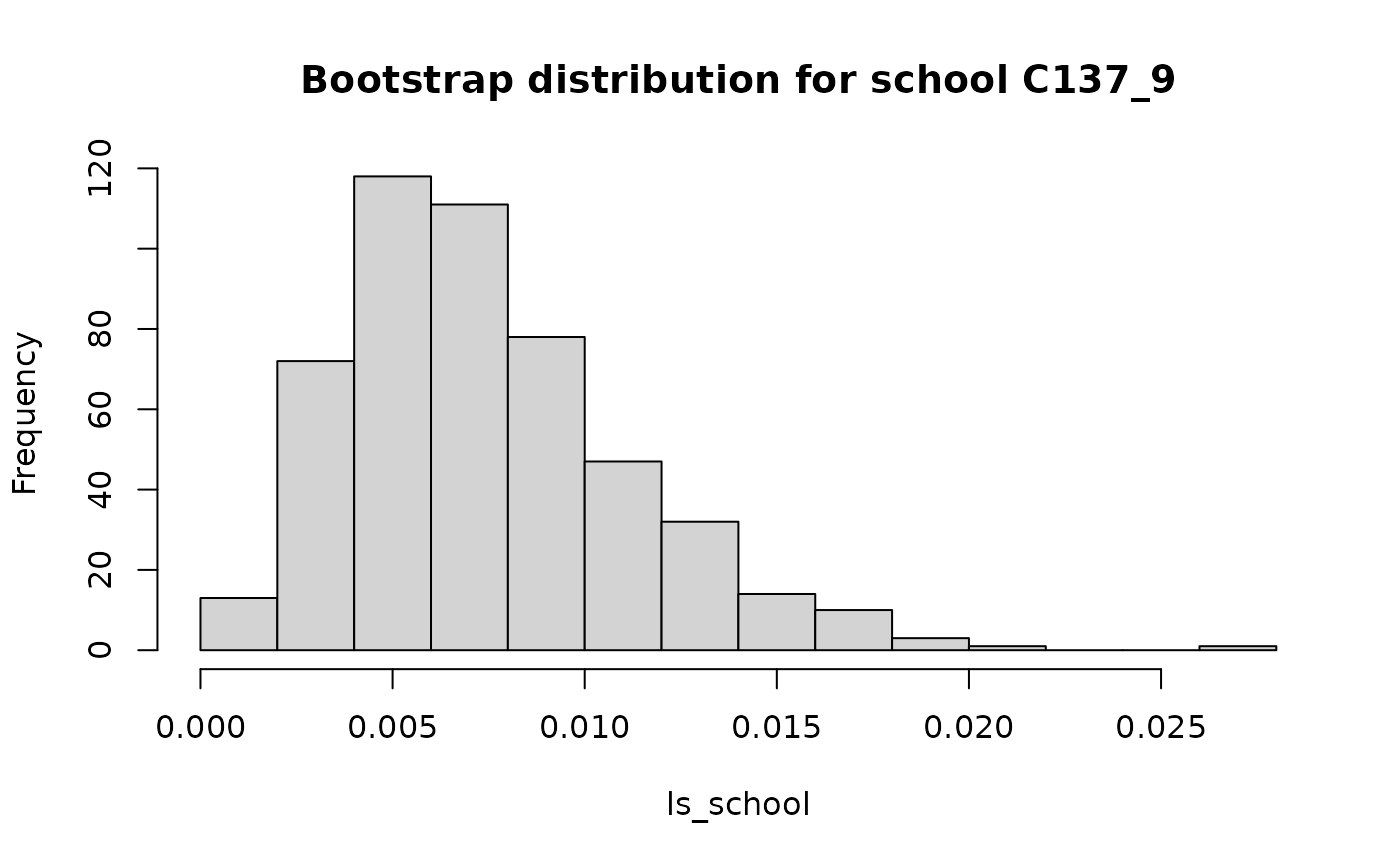
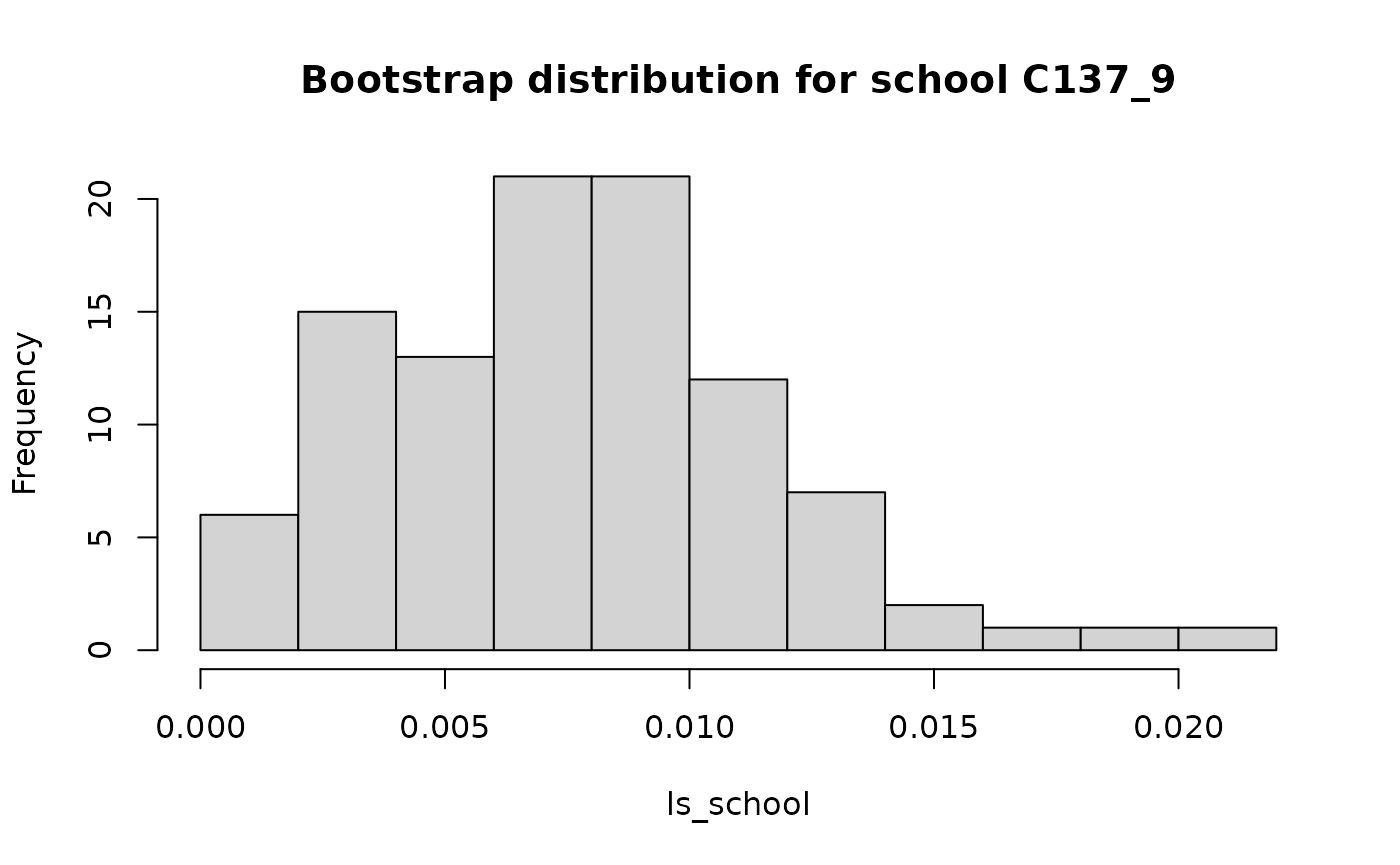
Deploying to gh-pages from @ elbersb/segregation@3d53dcfb6d64aaa420fafcd4ab8690ae464fd706 🚀

diff --git a/articles/segregation.html b/articles/segregation.html
@@ -201,7 +201,7 @@ American students. Hence, that row is missing.</p>
 <code><a href="../reference/matrix_to_long.html">matrix_to_long()</a></code> to convert them to the long format
 required for the package. As an example:</p>
 <div class="sourceCode" id="cb2"><pre class="downlit sourceCode r">
-<code class="sourceCode R"><span><span class="op">(</span><span class="va">m</span> <span class="op">=</span> <span class="fu"><a href="https://rdrr.io/r/base/matrix.html" class="external-link">matrix</a></span><span class="op">(</span><span class="fu"><a href="https://rdrr.io/r/base/c.html" class="external-link">c</a></span><span class="op">(</span><span class="fl">10</span>, <span class="fl">20</span>, <span class="fl">30</span>, <span class="fl">30</span>, <span class="fl">20</span>, <span class="fl">10</span><span class="op">)</span>, nrow <span class="op">=</span> <span class="fl">3</span><span class="op">)</span><span class="op">)</span></span>
+<code class="sourceCode R"><span><span class="op">(</span><span class="va">m</span> <span class="op">&lt;-</span> <span class="fu"><a href="https://rdrr.io/r/base/matrix.html" class="external-link">matrix</a></span><span class="op">(</span><span class="fu"><a href="https://rdrr.io/r/base/c.html" class="external-link">c</a></span><span class="op">(</span><span class="fl">10</span>, <span class="fl">20</span>, <span class="fl">30</span>, <span class="fl">30</span>, <span class="fl">20</span>, <span class="fl">10</span><span class="op">)</span>, nrow <span class="op">=</span> <span class="fl">3</span><span class="op">)</span><span class="op">)</span></span>
 <span><span class="co">#&gt;      [,1] [,2]</span></span>
 <span><span class="co">#&gt; [1,]   10   30</span></span>
 <span><span class="co">#&gt; [2,]   20   20</span></span>
@@ -253,12 +253,15 @@ groups and units correctly.</p>
 <p>For inference (discussed in more detail <a href="#inference">below</a>), we can use bootstrapping to obtain
 standard errors and confidence intervals:</p>
 <div class="sourceCode" id="cb6"><pre class="downlit sourceCode r">
-<code class="sourceCode R"><span><span class="fu"><a href="../reference/mutual_total.html">mutual_total</a></span><span class="op">(</span><span class="va">schools00</span>, <span class="st">"race"</span>, <span class="st">"school"</span>, weight <span class="op">=</span> <span class="st">"n"</span>,</span>
-<span>             se <span class="op">=</span> <span class="cn">TRUE</span>, CI <span class="op">=</span> <span class="fl">.95</span>, n_bootstrap <span class="op">=</span> <span class="fl">500</span><span class="op">)</span></span>
-<span><span class="co">#&gt; 500 bootstrap iterations on 877739 observations</span></span>
+<code class="sourceCode R"><span><span class="co"># setting n_bootstrap = 100 here to speed up - more iterations are recommended in practice</span></span>
+<span><span class="fu"><a href="../reference/mutual_total.html">mutual_total</a></span><span class="op">(</span><span class="va">schools00</span>, <span class="st">"race"</span>, <span class="st">"school"</span>,</span>
+<span>  weight <span class="op">=</span> <span class="st">"n"</span>,</span>
+<span>  se <span class="op">=</span> <span class="cn">TRUE</span>, CI <span class="op">=</span> <span class="fl">.95</span>, n_bootstrap <span class="op">=</span> <span class="fl">100</span></span>
+<span><span class="op">)</span></span>
+<span><span class="co">#&gt; 100 bootstrap iterations on 877739 observations</span></span>
 <span><span class="co">#&gt;    stat       est           se                  CI        bias</span></span>
-<span><span class="co">#&gt; 1:    M 0.4219107 0.0007650489 0.4203653,0.4232583 0.003628261</span></span>
-<span><span class="co">#&gt; 2:    H 0.4152140 0.0006907829 0.4138167,0.4165583 0.003594309</span></span></code></pre></div>
+<span><span class="co">#&gt; 1:    M 0.4218840 0.0008174818 0.4202065,0.4233499 0.003654953</span></span>
+<span><span class="co">#&gt; 2:    H 0.4151844 0.0007238189 0.4137700,0.4164411 0.003623954</span></span></code></pre></div>
 <p>As there a large number of observations, the standard errors are very
 small.</p>
 </div>
@@ -342,7 +345,8 @@ obtain the decomposition by state. To do so, we can use
 <code><a href="../reference/mutual_within.html">mutual_within()</a></code>:</p>
 <div class="sourceCode" id="cb9"><pre class="downlit sourceCode r">
 <code class="sourceCode R"><span><span class="op">(</span><span class="va">within</span> <span class="op">&lt;-</span> <span class="fu"><a href="../reference/mutual_within.html">mutual_within</a></span><span class="op">(</span><span class="va">schools00</span>, <span class="st">"race"</span>, <span class="st">"school"</span>,</span>
-<span>                         within <span class="op">=</span> <span class="st">"state"</span>, weight <span class="op">=</span> <span class="st">"n"</span>, wide <span class="op">=</span> <span class="cn">TRUE</span><span class="op">)</span><span class="op">)</span></span>
+<span>  within <span class="op">=</span> <span class="st">"state"</span>, weight <span class="op">=</span> <span class="st">"n"</span>, wide <span class="op">=</span> <span class="cn">TRUE</span></span>
+<span><span class="op">)</span><span class="op">)</span></span>
 <span><span class="co">#&gt;    state         M         p         H ent_ratio</span></span>
 <span><span class="co">#&gt; 1:     A 0.4085965 0.2768819 0.4969216 0.8092501</span></span>
 <span><span class="co">#&gt; 2:     B 0.2549959 0.4035425 0.2680884 0.9361190</span></span>
@@ -387,7 +391,8 @@ due to between-school segregation within districts? The package provides
 a convenience function for this use case:</p>
 <div class="sourceCode" id="cb12"><pre class="downlit sourceCode r">
 <code class="sourceCode R"><span><span class="fu"><a href="../reference/mutual_total_nested.html">mutual_total_nested</a></span><span class="op">(</span><span class="va">schools00</span>, <span class="st">"race"</span>, <span class="fu"><a href="https://rdrr.io/r/base/c.html" class="external-link">c</a></span><span class="op">(</span><span class="st">"state"</span>, <span class="st">"district"</span>, <span class="st">"school"</span><span class="op">)</span>,</span>
-<span>                    weight <span class="op">=</span> <span class="st">"n"</span><span class="op">)</span></span>
+<span>  weight <span class="op">=</span> <span class="st">"n"</span></span>
+<span><span class="op">)</span></span>
 <span><span class="co">#&gt;     between          within stat        est</span></span>
 <span><span class="co">#&gt; 1:    state                    M 0.09924370</span></span>
 <span><span class="co">#&gt; 2:    state                    H 0.09767398</span></span>
@@ -434,9 +439,12 @@ index, so it often makes sense to obtain confidence intervals. The
 following code plots the length of the 95% confidence interval in
 relation to the size of each school:</p>
 <div class="sourceCode" id="cb14"><pre class="downlit sourceCode r">
-<code class="sourceCode R"><span><span class="va">localse</span> <span class="op">&lt;-</span> <span class="fu"><a href="../reference/mutual_local.html">mutual_local</a></span><span class="op">(</span><span class="va">schools00</span>, <span class="st">"race"</span>, <span class="st">"school"</span>, weight <span class="op">=</span> <span class="st">"n"</span>,</span>
-<span>                        se <span class="op">=</span> <span class="cn">TRUE</span>, wide <span class="op">=</span> <span class="cn">TRUE</span>, n_bootstrap <span class="op">=</span> <span class="fl">1000</span><span class="op">)</span></span>
-<span><span class="co">#&gt; 1000 bootstrap iterations on 877739 observations</span></span>
+<code class="sourceCode R"><span><span class="co"># setting n_bootstrap = 100 here to speed up</span></span>
+<span><span class="va">localse</span> <span class="op">&lt;-</span> <span class="fu"><a href="../reference/mutual_local.html">mutual_local</a></span><span class="op">(</span><span class="va">schools00</span>, <span class="st">"race"</span>, <span class="st">"school"</span>,</span>
+<span>  weight <span class="op">=</span> <span class="st">"n"</span>,</span>
+<span>  se <span class="op">=</span> <span class="cn">TRUE</span>, wide <span class="op">=</span> <span class="cn">TRUE</span>, n_bootstrap <span class="op">=</span> <span class="fl">100</span></span>
+<span><span class="op">)</span></span>
+<span><span class="co">#&gt; 100 bootstrap iterations on 877739 observations</span></span>
 <span><span class="va">localse</span><span class="op">$</span><span class="va">lengthCI</span> <span class="op">&lt;-</span> <span class="fu"><a href="https://rdrr.io/r/base/lapply.html" class="external-link">sapply</a></span><span class="op">(</span><span class="va">localse</span><span class="op">$</span><span class="va">ls_CI</span>, <span class="fu">base</span><span class="fu">::</span><span class="va"><a href="https://rdrr.io/r/base/diff.html" class="external-link">diff</a></span><span class="op">)</span></span>
 <span><span class="fu"><a href="https://rdrr.io/r/base/with.html" class="external-link">with</a></span><span class="op">(</span><span class="va">localse</span>, <span class="fu"><a href="https://rdrr.io/r/graphics/plot.default.html" class="external-link">plot</a></span><span class="op">(</span>x <span class="op">=</span> <span class="va">p</span>, y <span class="op">=</span> <span class="va">lengthCI</span>, pch <span class="op">=</span> <span class="fl">16</span>, cex <span class="op">=</span> <span class="fl">0.3</span><span class="op">)</span><span class="op">)</span></span></code></pre></div>
 <p><img src="segregation_files/figure-html/unnamed-chunk-15-1.png" width="700"></p>
@@ -479,12 +487,15 @@ index is very close to either 0 or maximum segregation.</p>
 specified in the <code>CI</code> argument. The number of bootstrap
 iterations can be specified as well:</p>
 <div class="sourceCode" id="cb16"><pre class="downlit sourceCode r">
-<code class="sourceCode R"><span><span class="op">(</span><span class="va">se</span> <span class="op">&lt;-</span> <span class="fu"><a href="../reference/mutual_total.html">mutual_total</a></span><span class="op">(</span><span class="va">schools00</span>, <span class="st">"race"</span>, <span class="st">"school"</span>, weight <span class="op">=</span> <span class="st">"n"</span>,</span>
-<span>                    se <span class="op">=</span> <span class="cn">TRUE</span>, CI <span class="op">=</span> <span class="fl">.95</span>, n_bootstrap <span class="op">=</span> <span class="fl">500</span><span class="op">)</span><span class="op">)</span></span>
-<span><span class="co">#&gt; 500 bootstrap iterations on 877739 observations</span></span>
+<code class="sourceCode R"><span><span class="co"># setting n_bootstrap = 100 here to speed up</span></span>
+<span><span class="op">(</span><span class="va">se</span> <span class="op">&lt;-</span> <span class="fu"><a href="../reference/mutual_total.html">mutual_total</a></span><span class="op">(</span><span class="va">schools00</span>, <span class="st">"race"</span>, <span class="st">"school"</span>,</span>
+<span>  weight <span class="op">=</span> <span class="st">"n"</span>,</span>
+<span>  se <span class="op">=</span> <span class="cn">TRUE</span>, CI <span class="op">=</span> <span class="fl">.95</span>, n_bootstrap <span class="op">=</span> <span class="fl">100</span></span>
+<span><span class="op">)</span><span class="op">)</span></span>
+<span><span class="co">#&gt; 100 bootstrap iterations on 877739 observations</span></span>
 <span><span class="co">#&gt;    stat       est           se                  CI        bias</span></span>
-<span><span class="co">#&gt; 1:    M 0.4219743 0.0008026798 0.4204071,0.4234971 0.003564712</span></span>
-<span><span class="co">#&gt; 2:    H 0.4152782 0.0007374324 0.4138473,0.4167743 0.003530115</span></span></code></pre></div>
+<span><span class="co">#&gt; 1:    M 0.4217568 0.0008681800 0.4201259,0.4235897 0.003782171</span></span>
+<span><span class="co">#&gt; 2:    H 0.4150839 0.0007552775 0.4135594,0.4164773 0.003724424</span></span></code></pre></div>
 <p>The confidence intervals are based on the percentiles from the
 bootstrap distribution, and hence require a large number of bootstrap
 iterations for valid interpretation. The estimate <code>est</code> that
@@ -502,10 +513,10 @@ intervals, as</p>
 <div class="sourceCode" id="cb17"><pre class="downlit sourceCode r">
 <code class="sourceCode R"><span><span class="co"># M</span></span>
 <span><span class="fu"><a href="https://rdrr.io/r/base/with.html" class="external-link">with</a></span><span class="op">(</span><span class="va">se</span>, <span class="fu"><a href="https://rdrr.io/r/base/c.html" class="external-link">c</a></span><span class="op">(</span><span class="va">est</span><span class="op">[</span><span class="fl">1</span><span class="op">]</span> <span class="op">-</span> <span class="fl">1.96</span> <span class="op">*</span> <span class="va">se</span><span class="op">[</span><span class="fl">1</span><span class="op">]</span>, <span class="va">est</span><span class="op">[</span><span class="fl">1</span><span class="op">]</span> <span class="op">+</span> <span class="fl">1.96</span> <span class="op">*</span> <span class="va">se</span><span class="op">[</span><span class="fl">1</span><span class="op">]</span><span class="op">)</span><span class="op">)</span></span>
-<span><span class="co">#&gt; [1] 0.4204010 0.4235475</span></span>
+<span><span class="co">#&gt; [1] 0.4200552 0.4234584</span></span>
 <span><span class="co"># H</span></span>
 <span><span class="fu"><a href="https://rdrr.io/r/base/with.html" class="external-link">with</a></span><span class="op">(</span><span class="va">se</span>, <span class="fu"><a href="https://rdrr.io/r/base/c.html" class="external-link">c</a></span><span class="op">(</span><span class="va">est</span><span class="op">[</span><span class="fl">2</span><span class="op">]</span> <span class="op">-</span> <span class="fl">1.96</span> <span class="op">*</span> <span class="va">se</span><span class="op">[</span><span class="fl">2</span><span class="op">]</span>, <span class="va">est</span><span class="op">[</span><span class="fl">2</span><span class="op">]</span> <span class="op">+</span> <span class="fl">1.96</span> <span class="op">*</span> <span class="va">se</span><span class="op">[</span><span class="fl">2</span><span class="op">]</span><span class="op">)</span><span class="op">)</span></span>
-<span><span class="co">#&gt; [1] 0.4138328 0.4167236</span></span></code></pre></div>
+<span><span class="co">#&gt; [1] 0.4136035 0.4165642</span></span></code></pre></div>
 <p>provide effectively the same coverage as the confidence intervals
 obtained from the percentile bootstrap.</p>
 <p>Whenever the bootstrap is used, the bootstrap distributions for each
@@ -516,9 +527,12 @@ segregation scores for all schools, and then shows a histogram of the
 bootstrap distribution for school C137_9, which has a very low local
 segregation score:</p>
 <div class="sourceCode" id="cb18"><pre class="downlit sourceCode r">
-<code class="sourceCode R"><span><span class="va">local</span> <span class="op">&lt;-</span> <span class="fu"><a href="../reference/mutual_local.html">mutual_local</a></span><span class="op">(</span><span class="va">schools00</span>, <span class="st">"race"</span>, <span class="st">"school"</span>, weight <span class="op">=</span> <span class="st">"n"</span>,</span>
-<span>                      se <span class="op">=</span> <span class="cn">TRUE</span>, CI <span class="op">=</span> <span class="fl">.95</span>, n_bootstrap <span class="op">=</span> <span class="fl">500</span><span class="op">)</span></span>
-<span><span class="co">#&gt; 500 bootstrap iterations on 877739 observations</span></span>
+<code class="sourceCode R"><span><span class="co"># setting n_bootstrap = 100 here to speed up</span></span>
+<span><span class="va">local</span> <span class="op">&lt;-</span> <span class="fu"><a href="../reference/mutual_local.html">mutual_local</a></span><span class="op">(</span><span class="va">schools00</span>, <span class="st">"race"</span>, <span class="st">"school"</span>,</span>
+<span>  weight <span class="op">=</span> <span class="st">"n"</span>,</span>
+<span>  se <span class="op">=</span> <span class="cn">TRUE</span>, CI <span class="op">=</span> <span class="fl">.95</span>, n_bootstrap <span class="op">=</span> <span class="fl">100</span></span>
+<span><span class="op">)</span></span>
+<span><span class="co">#&gt; 100 bootstrap iterations on 877739 observations</span></span>
 <span><span class="co"># pick bootstrap distribution of local segregation scores for school C137_9</span></span>
 <span><span class="va">ls_school</span> <span class="op">&lt;-</span> <span class="fu"><a href="https://rdrr.io/r/base/attr.html" class="external-link">attr</a></span><span class="op">(</span><span class="va">local</span>, <span class="st">"bootstrap"</span><span class="op">)</span><span class="op">[</span><span class="va">school</span> <span class="op">==</span> <span class="st">"C137_9"</span> <span class="op">&amp;</span> <span class="va">stat</span> <span class="op">==</span> <span class="st">"ls"</span>, <span class="va">boot_est</span><span class="op">]</span></span>
 <span><span class="fu"><a href="https://rdrr.io/r/graphics/hist.html" class="external-link">hist</a></span><span class="op">(</span><span class="va">ls_school</span>, main <span class="op">=</span> <span class="st">"Bootstrap distribution for school C137_9"</span><span class="op">)</span></span></code></pre></div>
@@ -533,10 +547,11 @@ function <code><a href="../reference/mutual_expected.html">mutual_expected()</a>
 counts under independence from the marginal distributions of your table.
 For the <code>schools00</code> dataset:</p>
 <div class="sourceCode" id="cb19"><pre class="downlit sourceCode r">
-<code class="sourceCode R"><span><span class="fu"><a href="../reference/mutual_expected.html">mutual_expected</a></span><span class="op">(</span><span class="va">schools00</span>, <span class="st">"race"</span>, <span class="st">"school"</span>, weight <span class="op">=</span> <span class="st">"n"</span>, n_bootstrap <span class="op">=</span> <span class="fl">500</span><span class="op">)</span></span>
-<span><span class="co">#&gt;         stat         est           se</span></span>
-<span><span class="co">#&gt; 1: M under 0 0.004805483 7.182079e-05</span></span>
-<span><span class="co">#&gt; 2: H under 0 0.004729476 7.068482e-05</span></span></code></pre></div>
+<code class="sourceCode R"><span><span class="co"># setting n_bootstrap = 100 here to speed up</span></span>
+<span><span class="fu"><a href="../reference/mutual_expected.html">mutual_expected</a></span><span class="op">(</span><span class="va">schools00</span>, <span class="st">"race"</span>, <span class="st">"school"</span>, weight <span class="op">=</span> <span class="st">"n"</span>, n_bootstrap <span class="op">=</span> <span class="fl">100</span><span class="op">)</span></span>
+<span><span class="co">#&gt;         stat       est           se</span></span>
+<span><span class="co">#&gt; 1: M under 0 0.0047924 6.733302e-05</span></span>
+<span><span class="co">#&gt; 2: H under 0 0.0047166 6.626803e-05</span></span></code></pre></div>
 <p>Here, there is no concern about bias due to a small sample size.</p>
 </div>
 <div class="section level2">
@@ -557,8 +572,8 @@ the terms of the decomposition are found in Elbers (2021).</p>
 <span><span class="co">#&gt; 3:           diff -0.012153884</span></span>
 <span><span class="co">#&gt; 4:      additions -0.003412776</span></span>
 <span><span class="co">#&gt; 5:       removals -0.011405093</span></span>
-<span><span class="co">#&gt; 6: group_marginal  0.017865684</span></span>
-<span><span class="co">#&gt; 7:  unit_marginal -0.011707361</span></span>
+<span><span class="co">#&gt; 6: group_marginal  0.017186497</span></span>
+<span><span class="co">#&gt; 7:  unit_marginal -0.011028174</span></span>
 <span><span class="co">#&gt; 8:     structural -0.003494338</span></span></code></pre></div>
 <p>This method also supports inference by setting
 <code>se = TRUE</code>.</p>

diff --git a/articles/plotting.html b/articles/plotting.html
@@ -146,26 +146,28 @@ the argument <code>axis_labels</code>.</p>
 <span><span class="fu"><a href="../reference/segplot.html">segplot</a></span><span class="op">(</span><span class="va">sch</span>, <span class="st">"race"</span>, <span class="st">"school"</span>, weight <span class="op">=</span> <span class="st">"n"</span>, axis_labels <span class="op">=</span> <span class="st">"both"</span><span class="op">)</span></span></code></pre></div>
 <p><img src="plotting_files/figure-html/unnamed-chunk-3-1.png" width="700"></p>
 <div class="sourceCode" id="cb3"><pre class="downlit sourceCode r">
-<code class="sourceCode R"><span><span class="co"># order by majority group (white in this case)</span></span>
+<code class="sourceCode R"><span></span>
+<span><span class="co"># order by majority group (white in this case)</span></span>
 <span><span class="fu"><a href="../reference/segplot.html">segplot</a></span><span class="op">(</span><span class="va">sch</span>, <span class="st">"race"</span>, <span class="st">"school"</span>, weight <span class="op">=</span> <span class="st">"n"</span>, order <span class="op">=</span> <span class="st">"majority"</span><span class="op">)</span></span></code></pre></div>
 <p><img src="plotting_files/figure-html/unnamed-chunk-3-2.png" width="700"></p>
 <div class="sourceCode" id="cb4"><pre class="downlit sourceCode r">
-<code class="sourceCode R"><span><span class="co"># increase the space between bars</span></span>
+<code class="sourceCode R"><span></span>
+<span><span class="co"># increase the space between bars</span></span>
 <span><span class="co"># (has to be very low here because there are many schools in this dataset)</span></span>
 <span><span class="fu"><a href="../reference/segplot.html">segplot</a></span><span class="op">(</span><span class="va">sch</span>, <span class="st">"race"</span>, <span class="st">"school"</span>, weight <span class="op">=</span> <span class="st">"n"</span>, bar_space <span class="op">=</span> <span class="fl">0.0005</span><span class="op">)</span></span></code></pre></div>
 <p><img src="plotting_files/figure-html/unnamed-chunk-3-3.png" width="700"></p>
 <div class="sourceCode" id="cb5"><pre class="downlit sourceCode r">
-<code class="sourceCode R"><span><span class="co"># change the reference distribution</span></span>
+<code class="sourceCode R"><span></span>
+<span><span class="co"># change the reference distribution</span></span>
 <span><span class="co"># (here, we just use an equalized distribution across the five groups)</span></span>
-<span><span class="op">(</span><span class="va">ref</span> <span class="op">&lt;-</span> <span class="fu"><a href="https://rdrr.io/r/base/data.frame.html" class="external-link">data.frame</a></span><span class="op">(</span>race <span class="op">=</span> <span class="fu"><a href="https://rdrr.io/r/base/unique.html" class="external-link">unique</a></span><span class="op">(</span><span class="va">schools00</span><span class="op">$</span><span class="va">race</span><span class="op">)</span>, p <span class="op">=</span> <span class="fu"><a href="https://rdrr.io/r/base/rep.html" class="external-link">rep</a></span><span class="op">(</span><span class="fl">0.2</span>, <span class="fl">5</span><span class="op">)</span><span class="op">)</span><span class="op">)</span></span></code></pre></div>
-<pre><code><span><span class="co">##     race   p</span></span>
-<span><span class="co">## 1  asian 0.2</span></span>
-<span><span class="co">## 2  black 0.2</span></span>
-<span><span class="co">## 3   hisp 0.2</span></span>
-<span><span class="co">## 4  white 0.2</span></span>
-<span><span class="co">## 5 native 0.2</span></span></code></pre>
-<div class="sourceCode" id="cb7"><pre class="downlit sourceCode r">
-<code class="sourceCode R"><span><span class="fu"><a href="../reference/segplot.html">segplot</a></span><span class="op">(</span><span class="va">sch</span>, <span class="st">"race"</span>, <span class="st">"school"</span>,</span>
+<span><span class="op">(</span><span class="va">ref</span> <span class="op">&lt;-</span> <span class="fu"><a href="https://rdrr.io/r/base/data.frame.html" class="external-link">data.frame</a></span><span class="op">(</span>race <span class="op">=</span> <span class="fu"><a href="https://rdrr.io/r/base/unique.html" class="external-link">unique</a></span><span class="op">(</span><span class="va">schools00</span><span class="op">$</span><span class="va">race</span><span class="op">)</span>, p <span class="op">=</span> <span class="fu"><a href="https://rdrr.io/r/base/rep.html" class="external-link">rep</a></span><span class="op">(</span><span class="fl">0.2</span>, <span class="fl">5</span><span class="op">)</span><span class="op">)</span><span class="op">)</span></span>
+<span><span class="co">#&gt;     race   p</span></span>
+<span><span class="co">#&gt; 1  asian 0.2</span></span>
+<span><span class="co">#&gt; 2  black 0.2</span></span>
+<span><span class="co">#&gt; 3   hisp 0.2</span></span>
+<span><span class="co">#&gt; 4  white 0.2</span></span>
+<span><span class="co">#&gt; 5 native 0.2</span></span>
+<span><span class="fu"><a href="../reference/segplot.html">segplot</a></span><span class="op">(</span><span class="va">sch</span>, <span class="st">"race"</span>, <span class="st">"school"</span>,</span>
 <span>  weight <span class="op">=</span> <span class="st">"n"</span>,</span>
 <span>  reference_distribution <span class="op">=</span> <span class="va">ref</span></span>
 <span><span class="op">)</span></span></code></pre></div>
@@ -194,7 +196,7 @@ the argument neighbors.</p>
 <p>The second step is then to run the actual compression algorithm using
 <code><a href="../reference/compress.html">compress()</a></code>. For this example, we choose to compress based
 on a relatively small window:</p>
-<div class="sourceCode" id="cb8"><pre class="downlit sourceCode r">
+<div class="sourceCode" id="cb6"><pre class="downlit sourceCode r">
 <code class="sourceCode R"><span><span class="co"># compression based on window of 20 'neighboring' units</span></span>
 <span><span class="co"># in terms of local segregation (alternatively, neighbors can be a data frame)</span></span>
 <span><span class="va">comp</span> <span class="op">&lt;-</span> <span class="fu"><a href="../reference/compress.html">compress</a></span><span class="op">(</span><span class="va">sch</span>, <span class="st">"race"</span>, <span class="st">"school"</span>,</span>
@@ -203,13 +205,13 @@ on a relatively small window:</p>
 <p>After running <code><a href="../reference/compress.html">compress()</a></code>—which can take some time
 depending on how many neighbors need to be considered—the output
 summarizes the compression that can be achieved:</p>
-<div class="sourceCode" id="cb9"><pre class="downlit sourceCode r">
-<code class="sourceCode R"><span><span class="va">comp</span></span></code></pre></div>
-<pre><code><span><span class="co">## Compression of dataset with 560 units</span></span>
-<span><span class="co">## Original M: 0.4085965; Final M: 6.661338e-16</span></span>
-<span><span class="co">## - Threshold 99%: M = 0.4045489; Units = 98</span></span>
-<span><span class="co">## - Threshold 95%: M = 0.3886079; Units = 24</span></span>
-<span><span class="co">## - Threshold 90%: M = 0.3696806; Units = 10</span></span></code></pre>
+<div class="sourceCode" id="cb7"><pre class="downlit sourceCode r">
+<code class="sourceCode R"><span><span class="va">comp</span></span>
+<span><span class="co">#&gt; Compression of dataset with 560 units</span></span>
+<span><span class="co">#&gt; Original M: 0.4085965; Final M: 6.661338e-16</span></span>
+<span><span class="co">#&gt; - Threshold 99%: M = 0.4045489; Units = 98</span></span>
+<span><span class="co">#&gt; - Threshold 95%: M = 0.3886079; Units = 24</span></span>
+<span><span class="co">#&gt; - Threshold 90%: M = 0.3696806; Units = 10</span></span></code></pre></div>
 <p>The results indicate that 99% of the segregation information can be
 retained by only 98 units (out of 560 in the original dataset), 95% in
 only 24 units, and 90% in 10 units. The percentage of information
@@ -217,7 +219,7 @@ retained on each iteration can be accessed via the data frame available
 through <code>comp$iterations</code>. This data frame can also be used
 to generate a plot that shows the relationship between the number of
 merges and the loss in segregation information:</p>
-<div class="sourceCode" id="cb11"><pre class="downlit sourceCode r">
+<div class="sourceCode" id="cb8"><pre class="downlit sourceCode r">
 <code class="sourceCode R"><span><span class="fu"><a href="../reference/scree_plot.html">scree_plot</a></span><span class="op">(</span><span class="va">comp</span><span class="op">)</span></span></code></pre></div>
 <p><img src="plotting_files/figure-html/unnamed-chunk-6-1.png" width="700"></p>
 <p>The third step is to create a new dataset based on the desired level
@@ -225,20 +227,20 @@ of compression. This can be achieved using the function
 <code><a href="../reference/merge_units.html">merge_units()</a></code>, and either <code>n_units</code> or
 <code>percent</code> can be specified to indicate the desired level of
 compression.</p>
-<div class="sourceCode" id="cb12"><pre class="downlit sourceCode r">
+<div class="sourceCode" id="cb9"><pre class="downlit sourceCode r">
 <code class="sourceCode R"><span><span class="va">sch_compressed</span> <span class="op">&lt;-</span> <span class="fu"><a href="../reference/merge_units.html">merge_units</a></span><span class="op">(</span><span class="va">comp</span>, n_units <span class="op">=</span> <span class="fl">15</span><span class="op">)</span></span>
 <span><span class="co"># or, for instance: merge_units(comp, percent = 0.80)</span></span>
-<span><span class="fu"><a href="https://rdrr.io/r/utils/head.html" class="external-link">head</a></span><span class="op">(</span><span class="va">sch_compressed</span><span class="op">)</span></span></code></pre></div>
-<pre><code><span><span class="co">##    school  race     n</span></span>
-<span><span class="co">## 1:    M14 asian   394</span></span>
-<span><span class="co">## 2:    M14 black  5742</span></span>
-<span><span class="co">## 3:    M14  hisp   880</span></span>
-<span><span class="co">## 4:    M14 white 31256</span></span>
-<span><span class="co">## 5:    M15 black   162</span></span>
-<span><span class="co">## 6:    M15  hisp   321</span></span></code></pre>
+<span><span class="fu"><a href="https://rdrr.io/r/utils/head.html" class="external-link">head</a></span><span class="op">(</span><span class="va">sch_compressed</span><span class="op">)</span></span>
+<span><span class="co">#&gt;    school  race     n</span></span>
+<span><span class="co">#&gt; 1:    M14 asian   394</span></span>
+<span><span class="co">#&gt; 2:    M14 black  5742</span></span>
+<span><span class="co">#&gt; 3:    M14  hisp   880</span></span>
+<span><span class="co">#&gt; 4:    M14 white 31256</span></span>
+<span><span class="co">#&gt; 5:    M15 black   162</span></span>
+<span><span class="co">#&gt; 6:    M15  hisp   321</span></span></code></pre></div>
 <p>The compressed dataset has the same format as the original dataset
 and can now be used to produce another segplot, e.g.</p>
-<div class="sourceCode" id="cb14"><pre class="downlit sourceCode r">
+<div class="sourceCode" id="cb10"><pre class="downlit sourceCode r">
 <code class="sourceCode R"><span><span class="fu"><a href="../reference/segplot.html">segplot</a></span><span class="op">(</span><span class="va">sch_compressed</span>, <span class="st">"race"</span>, <span class="st">"school"</span>, weight <span class="op">=</span> <span class="st">"n"</span><span class="op">)</span></span></code></pre></div>
 <p><img src="plotting_files/figure-html/unnamed-chunk-8-1.png" width="700"></p>
 </div>

diff --git a/articles/faq.html b/articles/faq.html
@@ -266,12 +266,14 @@ adjusting forward, the other from adjusting backwards). By averaging
 them we can create a single margins-adjusted local segregation
 score:</p>
 <div class="sourceCode" id="cb8"><pre class="downlit sourceCode r">
-<code class="sourceCode R"><span><span class="va">diff</span> <span class="op">&lt;-</span> <span class="fu"><a href="../reference/mutual_difference.html">mutual_difference</a></span><span class="op">(</span><span class="va">schools00</span>, <span class="va">schools05</span>, <span class="st">"race"</span>, <span class="st">"school"</span>, </span>
-<span>                          weight <span class="op">=</span> <span class="st">"n"</span>, method <span class="op">=</span> <span class="st">"shapley_detailed"</span><span class="op">)</span></span>
+<code class="sourceCode R"><span><span class="va">diff</span> <span class="op">&lt;-</span> <span class="fu"><a href="../reference/mutual_difference.html">mutual_difference</a></span><span class="op">(</span><span class="va">schools00</span>, <span class="va">schools05</span>, <span class="st">"race"</span>, <span class="st">"school"</span>,</span>
+<span>  weight <span class="op">=</span> <span class="st">"n"</span>, method <span class="op">=</span> <span class="st">"shapley_detailed"</span></span>
+<span><span class="op">)</span></span>
 <span></span>
-<span><span class="va">diff</span><span class="op">[</span><span class="va">stat</span> <span class="op"><a href="https://rdrr.io/r/base/match.html" class="external-link">%in%</a></span> <span class="fu"><a href="https://rdrr.io/r/base/c.html" class="external-link">c</a></span><span class="op">(</span><span class="st">"ls_diff1"</span>, <span class="st">"ls_diff2"</span><span class="op">)</span>, </span>
-<span>     <span class="fu">.</span><span class="op">(</span>ls_diff_adjusted <span class="op">=</span> <span class="fu"><a href="https://rdrr.io/r/base/mean.html" class="external-link">mean</a></span><span class="op">(</span><span class="va">est</span><span class="op">)</span><span class="op">)</span>, </span>
-<span>     by <span class="op">=</span> <span class="fu">.</span><span class="op">(</span><span class="va">school</span><span class="op">)</span><span class="op">]</span></span>
+<span><span class="va">diff</span><span class="op">[</span><span class="va">stat</span> <span class="op"><a href="https://rdrr.io/r/base/match.html" class="external-link">%in%</a></span> <span class="fu"><a href="https://rdrr.io/r/base/c.html" class="external-link">c</a></span><span class="op">(</span><span class="st">"ls_diff1"</span>, <span class="st">"ls_diff2"</span><span class="op">)</span>,</span>
+<span>  <span class="fu">.</span><span class="op">(</span>ls_diff_adjusted <span class="op">=</span> <span class="fu"><a href="https://rdrr.io/r/base/mean.html" class="external-link">mean</a></span><span class="op">(</span><span class="va">est</span><span class="op">)</span><span class="op">)</span>,</span>
+<span>  by <span class="op">=</span> <span class="fu">.</span><span class="op">(</span><span class="va">school</span><span class="op">)</span></span>
+<span><span class="op">]</span></span>
 <span><span class="co">#&gt;       school ls_diff_adjusted</span></span>
 <span><span class="co">#&gt;    1:   A1_3     -0.088983164</span></span>
 <span><span class="co">#&gt;    2:   A2_2     -0.044338042</span></span>

diff --git a/reference/dissimilarity_expected.html b/reference/dissimilarity_expected.html
@@ -137,13 +137,13 @@ over which segregation is computed.</p></dd>
 <span class="r-in"><span>    n <span class="op">=</span> <span class="fu"><a href="https://rdrr.io/r/base/c.html" class="external-link">c</a></span><span class="op">(</span><span class="fu"><a href="https://rdrr.io/r/base/rep.html" class="external-link">rep</a></span><span class="op">(</span><span class="fl">1</span>, <span class="fl">10</span><span class="op">)</span>, <span class="fu"><a href="https://rdrr.io/r/base/rep.html" class="external-link">rep</a></span><span class="op">(</span><span class="fl">9</span>, <span class="fl">10</span><span class="op">)</span><span class="op">)</span></span></span>
 <span class="r-in"><span><span class="op">)</span></span></span>
 <span class="r-in"><span><span class="fu">dissimilarity_expected</span><span class="op">(</span><span class="va">small</span>, <span class="st">"race"</span>, <span class="st">"school"</span>, weight <span class="op">=</span> <span class="st">"n"</span><span class="op">)</span></span></span>
-<span class="r-out co"><span class="r-pr">#&gt;</span>         stat       est        se</span>
-<span class="r-out co"><span class="r-pr">#&gt;</span> 1: D under 0 0.3733333 0.1197745</span>
+<span class="r-out co"><span class="r-pr">#&gt;</span>         stat       est     se</span>
+<span class="r-out co"><span class="r-pr">#&gt;</span> 1: D under 0 0.3722222 0.1087</span>
 <span class="r-in"><span><span class="co"># with an increase in sample size (n=1000), the values improve</span></span></span>
 <span class="r-in"><span><span class="va">small</span><span class="op">$</span><span class="va">n</span> <span class="op">&lt;-</span> <span class="va">small</span><span class="op">$</span><span class="va">n</span> <span class="op">*</span> <span class="fl">10</span></span></span>
 <span class="r-in"><span><span class="fu">dissimilarity_expected</span><span class="op">(</span><span class="va">small</span>, <span class="st">"race"</span>, <span class="st">"school"</span>, weight <span class="op">=</span> <span class="st">"n"</span><span class="op">)</span></span></span>
-<span class="r-out co"><span class="r-pr">#&gt;</span>         stat       est         se</span>
-<span class="r-out co"><span class="r-pr">#&gt;</span> 1: D under 0 0.1207778 0.02948851</span>
+<span class="r-out co"><span class="r-pr">#&gt;</span>         stat       est        se</span>
+<span class="r-out co"><span class="r-pr">#&gt;</span> 1: D under 0 0.1207778 0.0306904</span>
 </code></pre></div>
     </div>
   </div>
